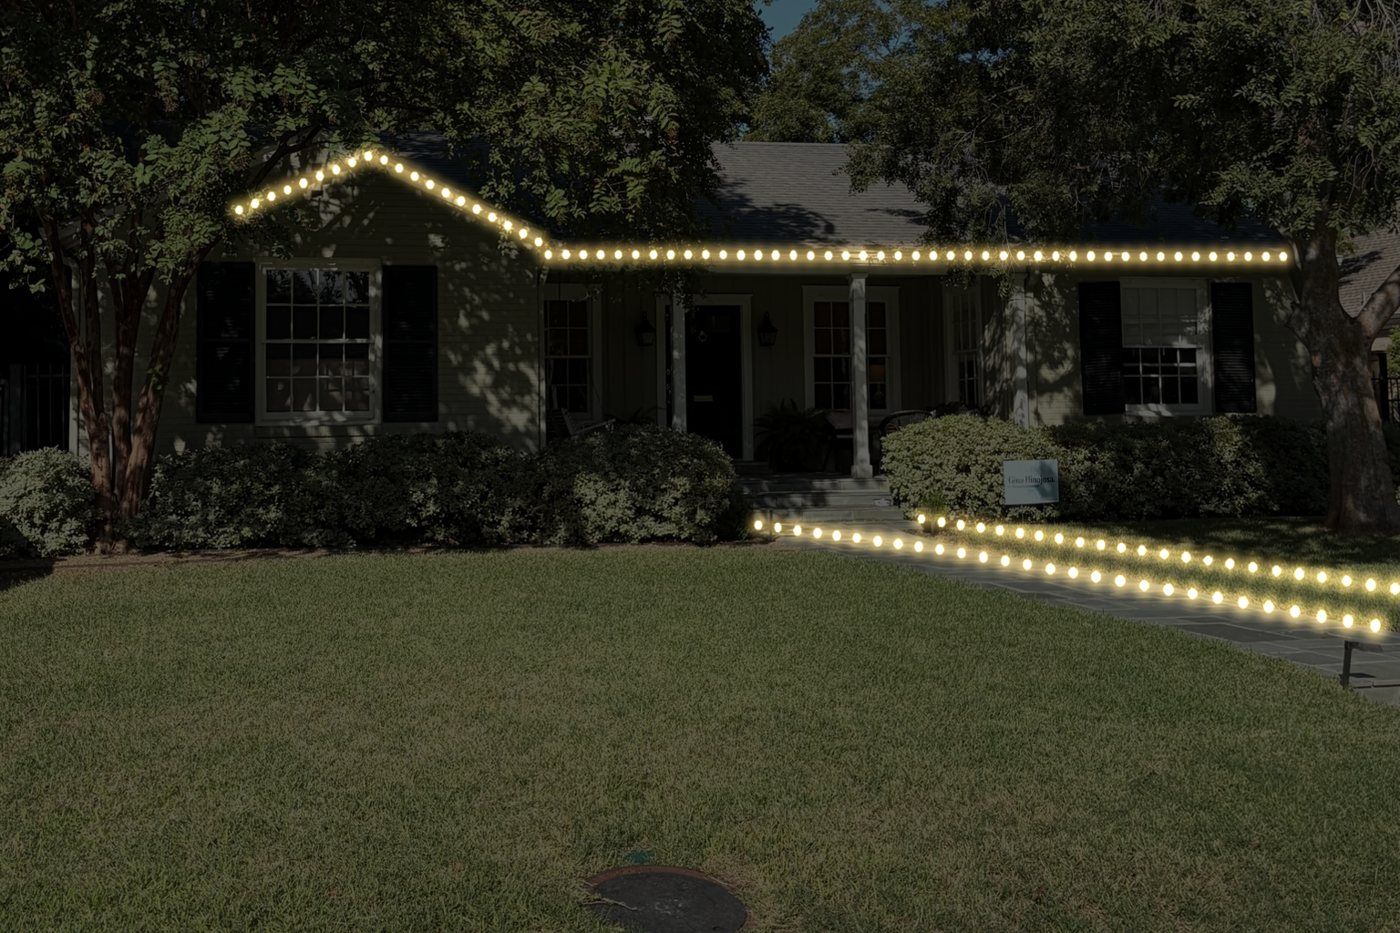
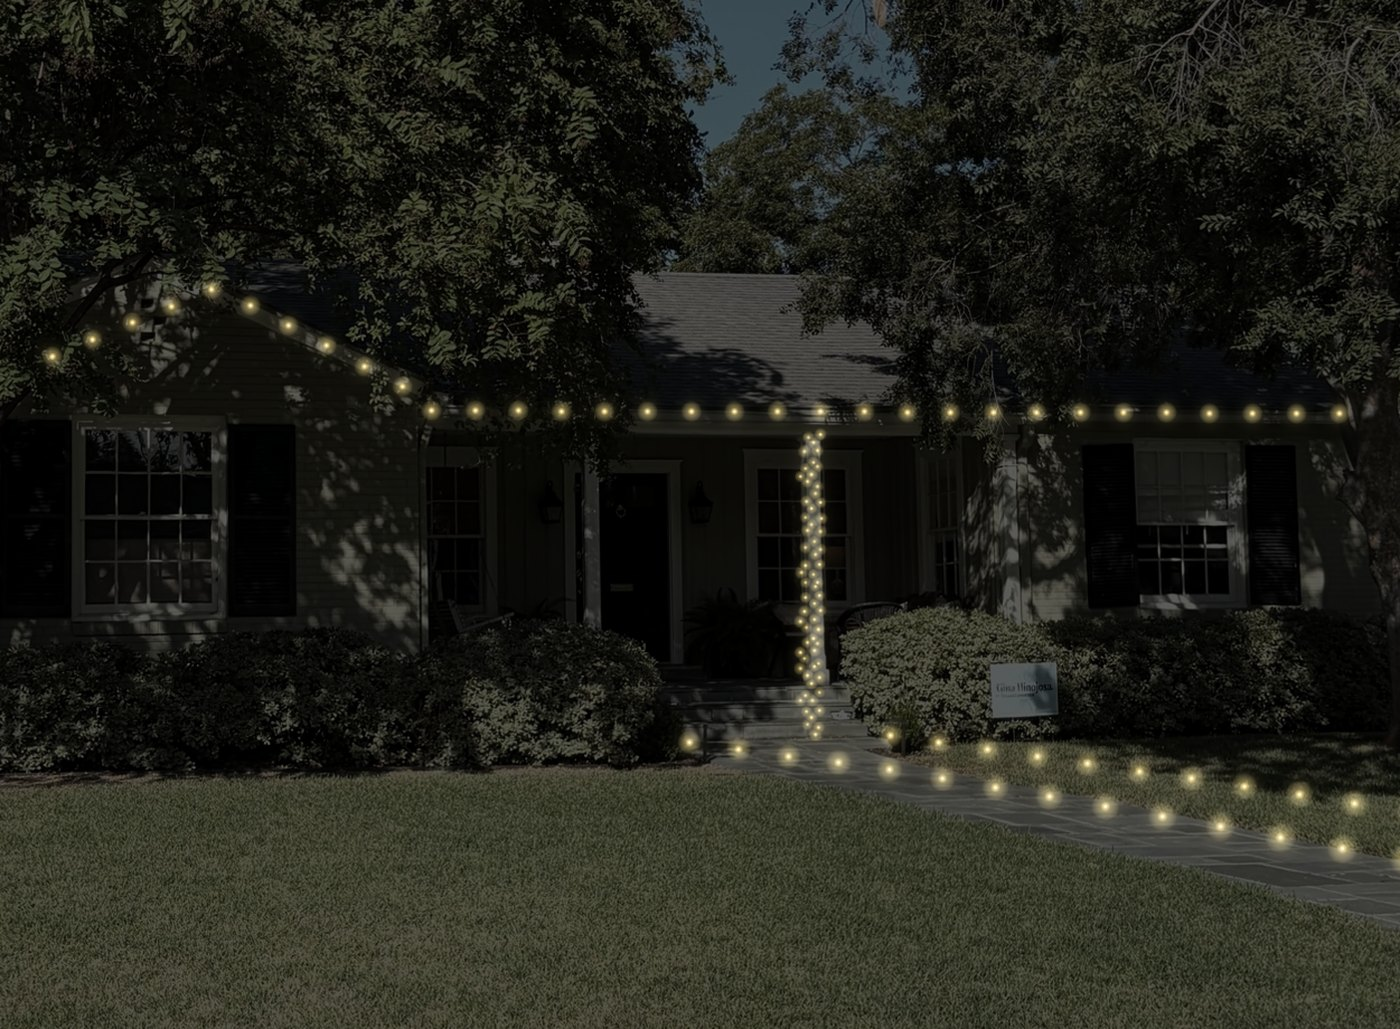
Style-matched renders: 1415-wathen-ave 1416-preston-ave 1424-preston-ave 1513-gaston-ave 1603-westover-rd 1609-northwood-rd
Claude-Session: https://claude.ai/code/session_01NWYzJWcCd7XAGWYrkcqyAo

diff --git a/q/1609-northwood-rd.html b/q/1609-northwood-rd.html
@@ -102,8 +102,8 @@
   <p class="meta"><span>Designed from the curb by hand</span><span class="sep">·</span><span>Warm-white commercial-grade C9s</span></p>
 
   <figure>
-    <img class="render" id="render" src="img/1609-northwood-rd-2.jpg" alt="Rendering of 1609 Northwood Rd with warm-white C9 holiday lights">
-    <figcaption id="cap">Showing: Roofline + Trees · tap an option to compare</figcaption>
+    <img class="render" id="render" src="img/1609-northwood-rd-3.jpg" alt="Rendering of 1609 Northwood Rd with warm-white C9 holiday lights">
+    <figcaption id="cap">Showing: The Full Glow · tap an option to compare</figcaption>
   </figure>
 
   <section>
